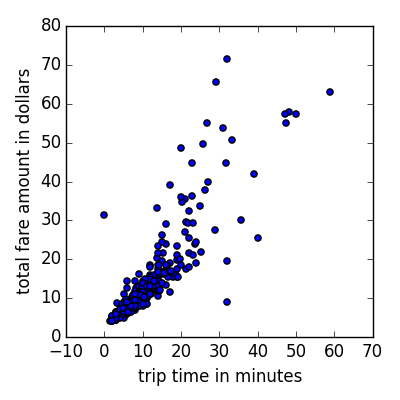
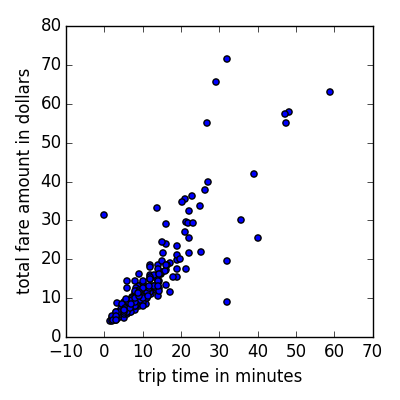
first legitimate timing results

diff --git a/allplots.py b/allplots.py
@@ -17,8 +17,8 @@ matplotlib.use('Agg')
 import matplotlib.pyplot as plt
 
 
-#taxicsv = os.sep.join(('data', 'taxi.csv'))
-taxicsv = os.sep.join(('data', 'smalltaxi.csv'))
+taxicsv = os.sep.join(('data', 'taxi.csv'))
+#taxicsv = os.sep.join(('data', 'smalltaxi.csv'))
 taxi = pd.read_csv(taxicsv)
 
 
